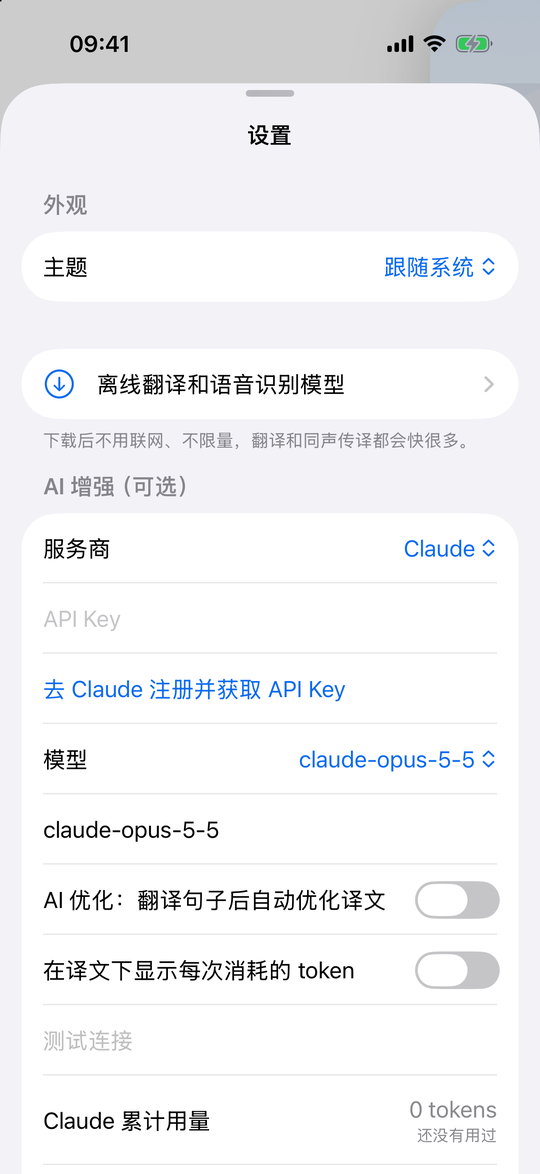
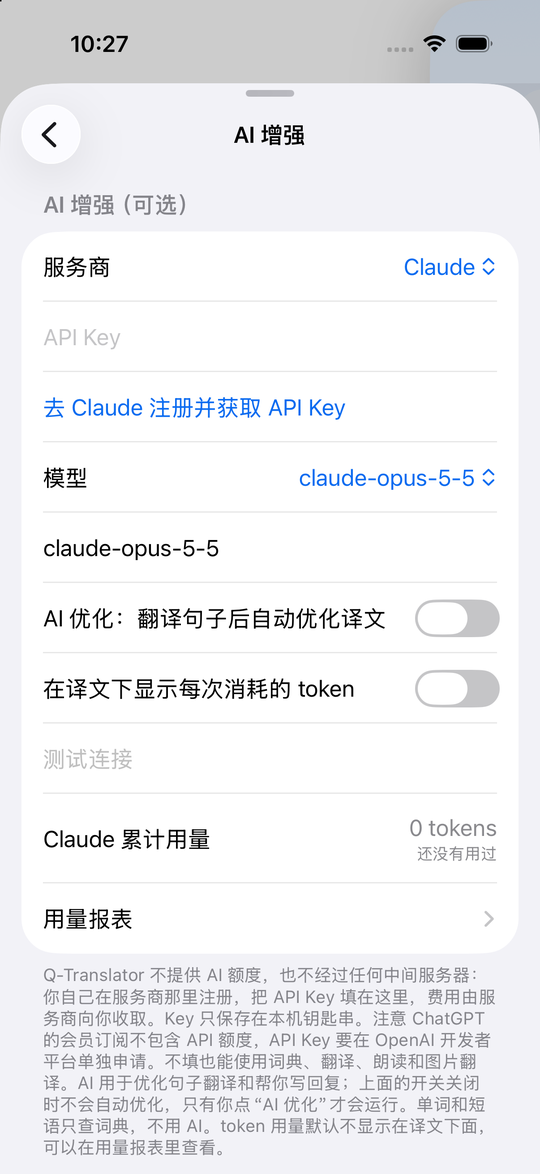
Docs: AI settings page path and refreshed screenshots

diff --git a/docs/USER_GUIDE.md b/docs/USER_GUIDE.md
@@ -223,7 +223,7 @@ Find the model name in the provider's documentation (for example `qwen-plus`); m
 <img src="images/settings-provider.png" width="240" alt="Choosing a provider">
 </p>
 
-1. Drawer › 设置 (Settings) at the bottom left › AI 增强（可选）.
+1. Drawer › 设置 (Settings) at the bottom left › tap AI 增强 (AI enhancement). If you tap a feature that needs AI before setting a key, a dialog offers 去配置 (set up), which opens this page directly.
 2. **服务商 (Provider)**: choose the one you signed up with.
 3. **API Key**: paste your key. The link below it opens the provider's sign-up page.
 4. **模型 (Model)**: pick one from the list or type a name. The default is fine; smaller models near the top of the list cost less.
